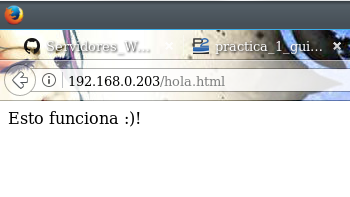
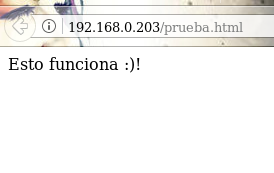
parte ssh hecha

diff --git a/practicas/practica2/README.md b/practicas/practica2/README.md
@@ -23,3 +23,22 @@ $ rsync -avz -e ssh alum@192.168.1.136:/var/www/ /var/www/
 Con esto, `rsync` realizará una copia del directorio de la máquina principal a la máquina secundaria por medio de `ssh`. Esto se especifica usando el parámetro `-e` y la dirección IP de la máquina principal. En la siguiente imagen podemos ver el resultado:
 
 ![rsync-copy](2.png)
+
+Si quisiéramos excluir ciertos directorios de nuestra copia de seguridad podemos usar el parámetro `--exclude`. Si queremos que al borrar un archivo en un servidor se borre también en el otro, podemos usar el parámetro `--delete`:
+
+```bash
+$ rsync -avz --delete --exclude=**/stats --exclude=**/error --exclude=**/files/pictures -e ssh alum@192.168.0.203:/var/www/ /var/www/
+```
+
+![rsync-param](3.png)
+
+Por último, para comprobar que la sincronización ha funcionado, probamos a listar el directorio `/var/www/html` en ambas máquinas:
+
+![syncdone](syncdone.png)
+
+## Acceder a SSH sin contraseña
+Siguiendo los pasos del guión de prácticas hemos configurado la máquina secundaria para acceder a la primera por SSH sin necesidad de contraseña.
+
+![ssh-publickey](4.png)
+
+

diff --git a/practicas/practica1/README.md b/practicas/practica1/README.md
@@ -113,7 +113,7 @@ Tras esto, comprobamos que se ha instalado correctamente el servidor Apache.
 
 ![apache](apache.png)
 
-Y, para hacer una última comprobación de que nuestro servidor está operativo creamos el siguiente fichero, que se llamará `hola.html`:
+Y, para hacer una última comprobación de que nuestro servidor está operativo creamos el siguiente fichero, que se llamará `prueba.html`:
 
 ```html
 <html>
